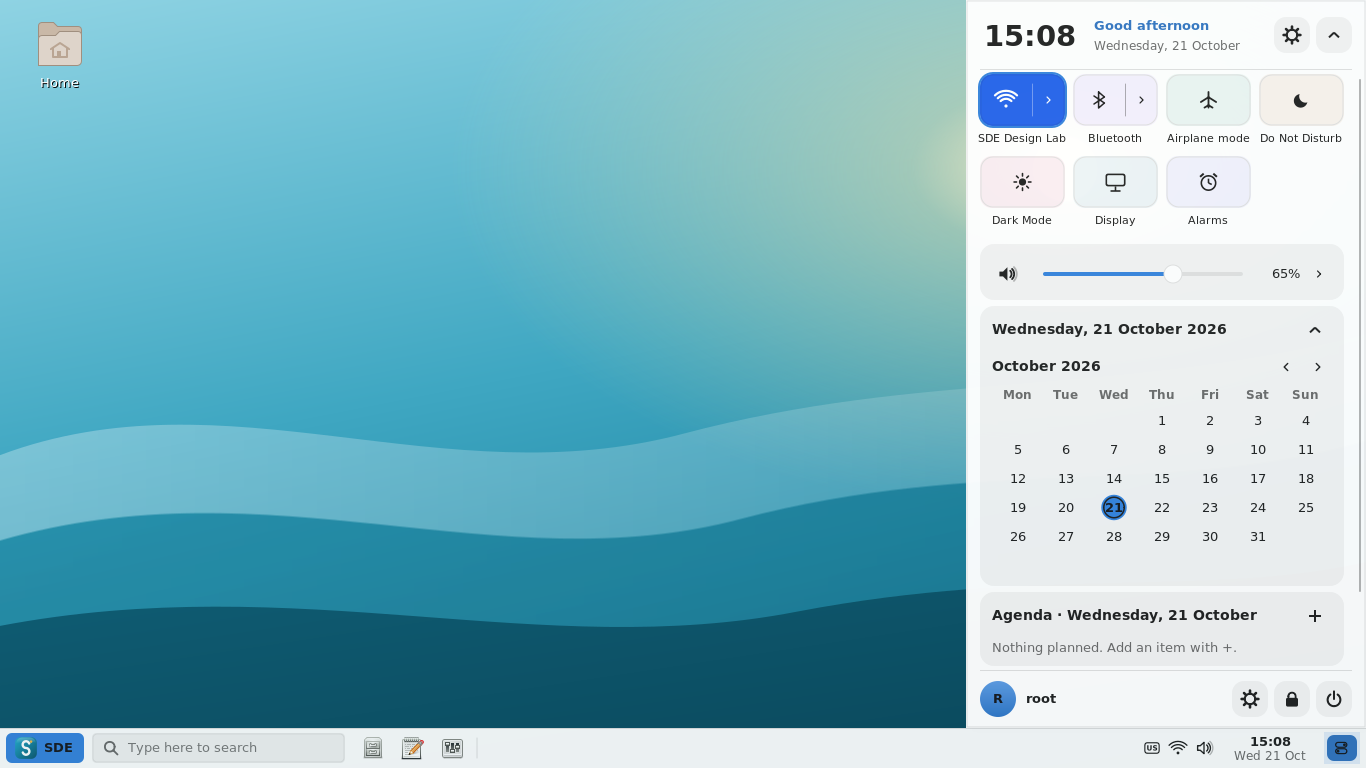
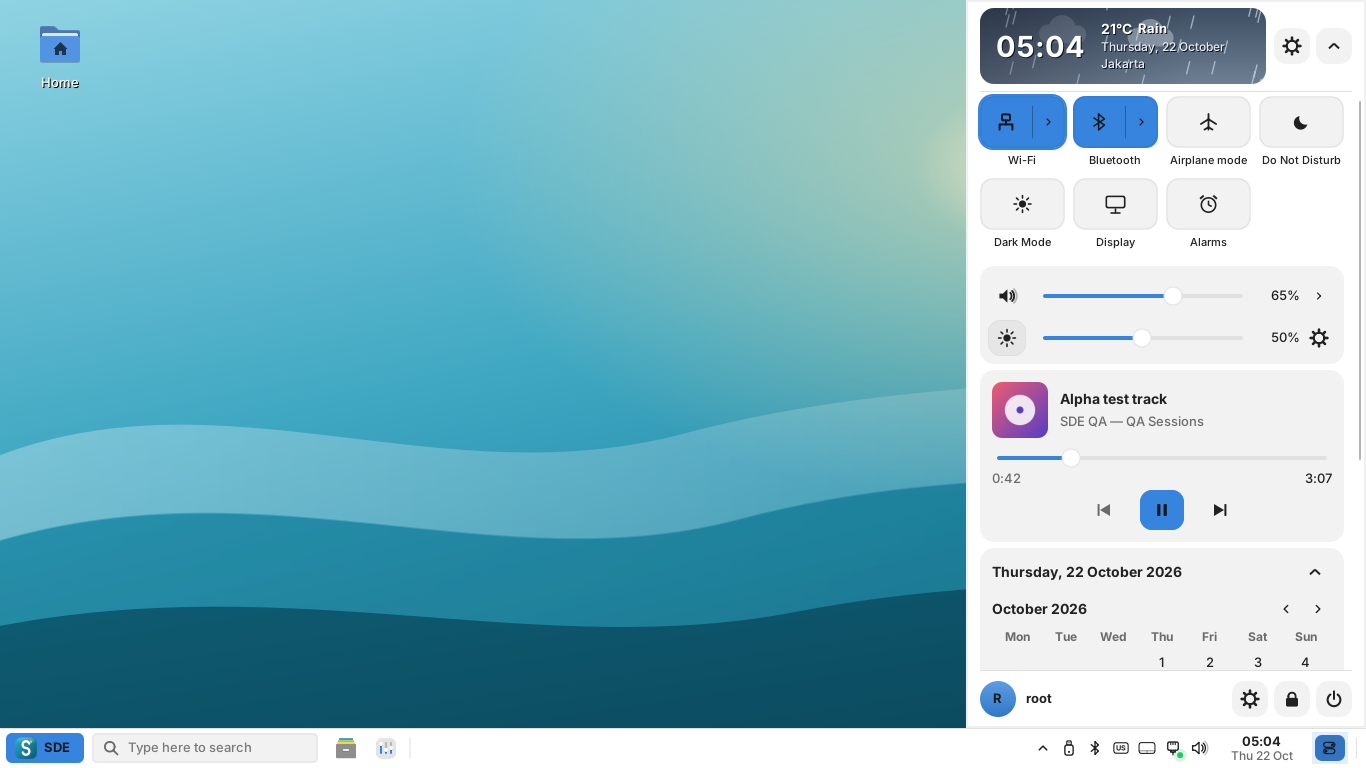
Alpha 50 screenshots: weather, menu, network, drives, touchpad, drawing, About, window buttons
Claude-Session: https://claude.ai/code/session_0137ZdsDEenkyq2WSgB3DxF2

diff --git a/docs/screenshots/latest/README.md b/docs/screenshots/latest/README.md
@@ -27,3 +27,15 @@ display (commit `e11fa5eeecbad22727c80b418ebbd6e4e0af85bf`). Network, sound and 
 
 ![12-update](12-update.png)
 
+
+![13-network](13-network.png)
+
+![14-drives](14-drives.png)
+
+![15-touchpad](15-touchpad.png)
+
+![16-photo-draw](16-photo-draw.png)
+
+![17-settings-about](17-settings-about.png)
+
+![18-window-buttons](18-window-buttons.png)
